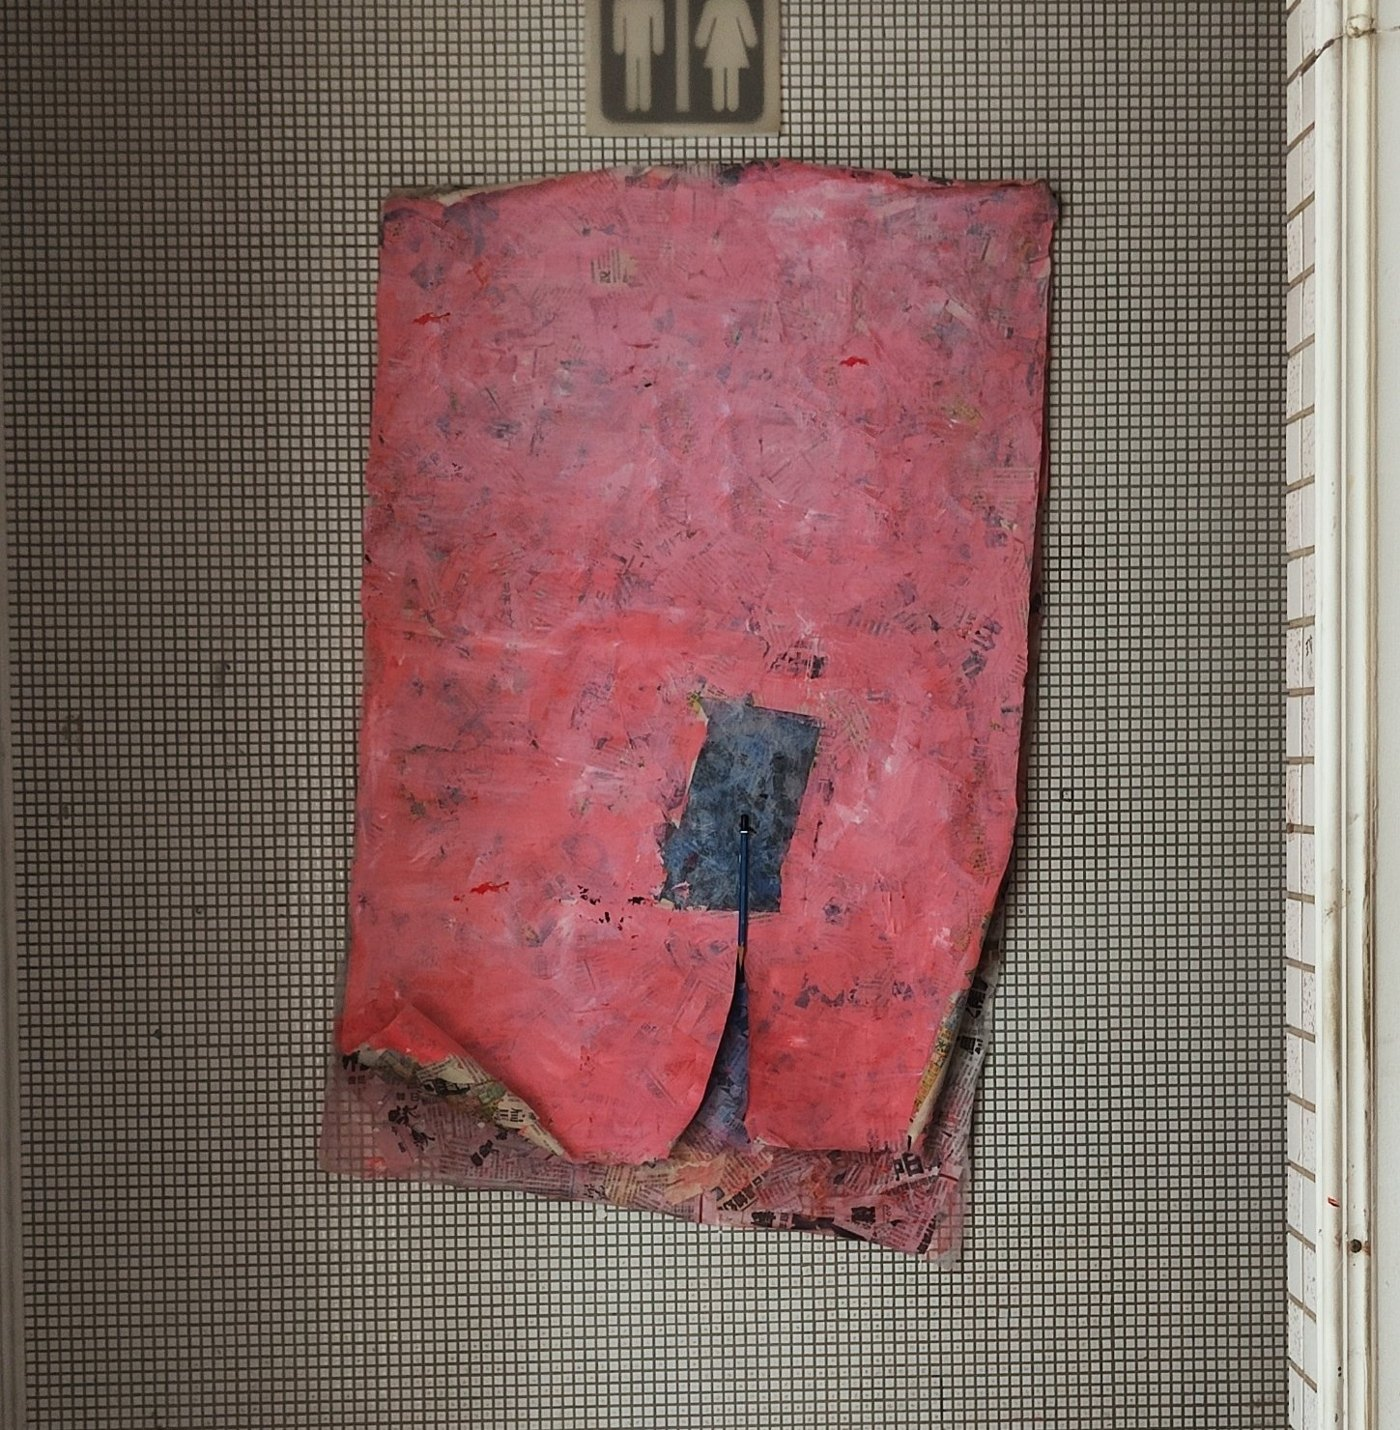
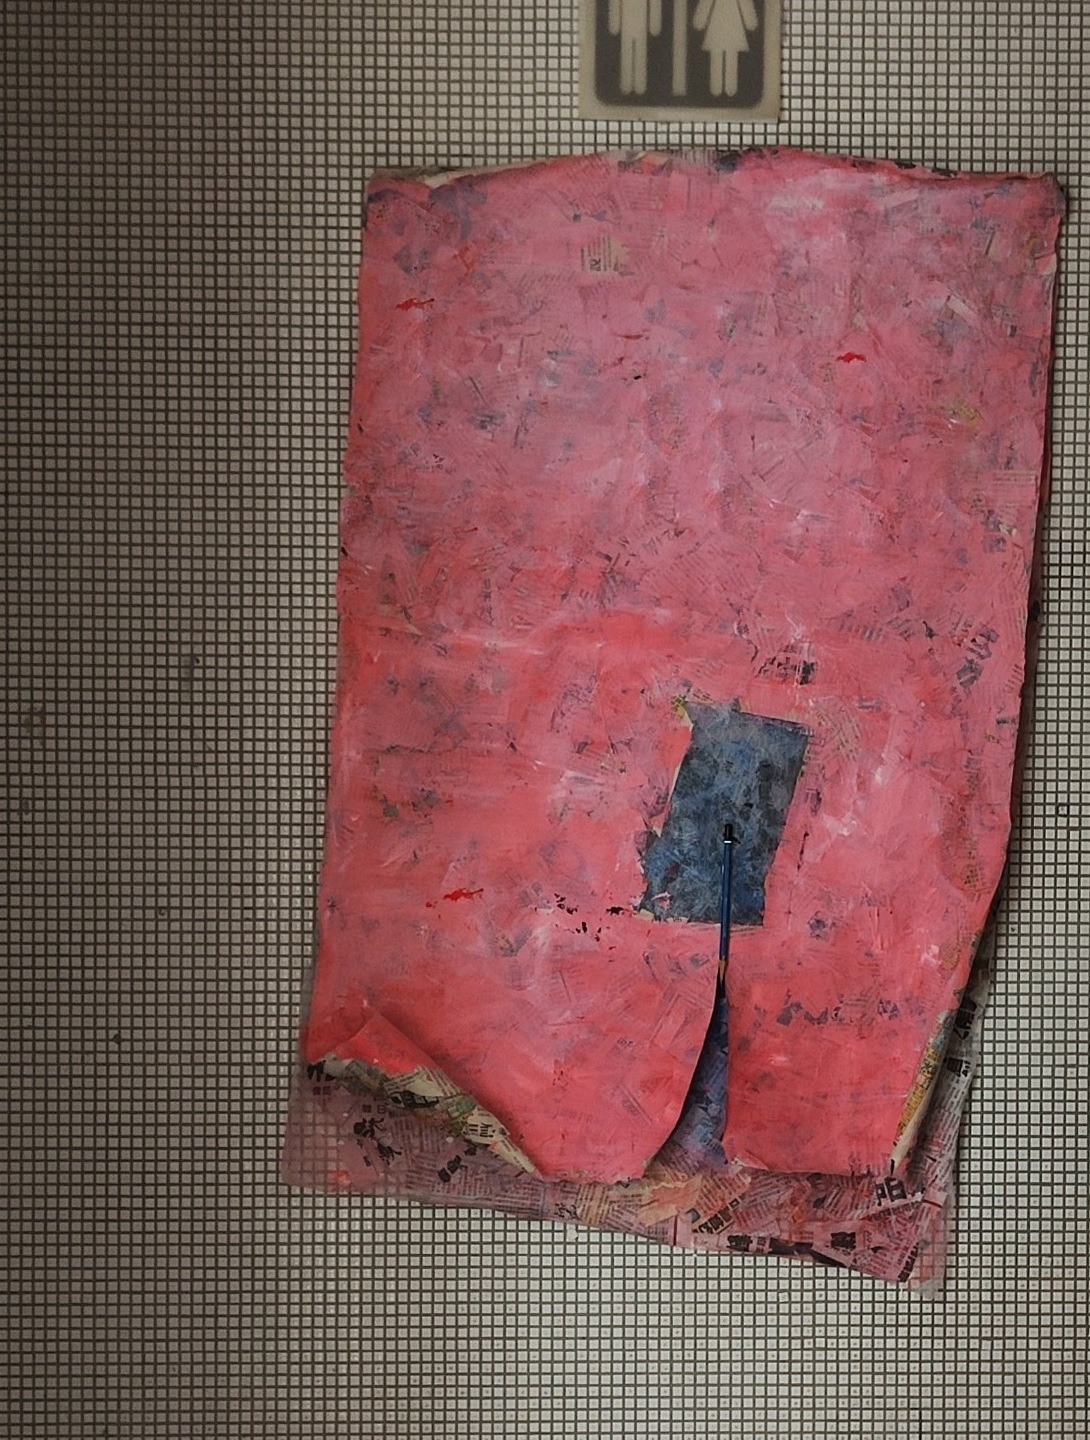
Draft: reorder studio works, frame-corrected images
Claude-Session: https://claude.ai/code/session_01Hq4tdmSpCTtjdqxRpwdXVc

diff --git a/index.html b/index.html
@@ -290,10 +290,9 @@ main { position: relative; margin-left: var(--side-w); padding-inline: clamp(28p
       <ul class="side-works">
         <li><a href="#w-wedding">To/gether - 在與一起<span class="yr">2025</span></a></li>
         <li><a href="#w-cube">驚喜立方體<span class="yr">2026</span></a></li>
-        <li><a href="#w-drawing">素描</a></li>
+        <li><a href="#w-figure">人像</a></li>
         <li><a href="#w-oil">油畫</a></li>
         <li><a href="#w-woodcut">木口木刻</a></li>
-        <li><a href="#w-figure">人像</a></li>
         <li><a href="#w-pink">粉紅（暫名）</a></li>
       </ul>
       <a href="#writing" data-nav="writing">Writing <span>書寫</span></a>
@@ -444,11 +443,10 @@ main { position: relative; margin-left: var(--side-w); padding-inline: clamp(28p
         <p class="meta">鍵盤互動作品 — 點進畫面後按鍵盤上的英文字母試試看</p>
       </article>
       <div class="w-pair">
-        <article class="work w-draw scrap m-writing t-shell lined reveal para" id="w-drawing" data-speed=".06" data-amp="8" data-stack="1" data-lift=".32">
-          <div class="plate scrap m-card t-cotton" data-amp="4" data-style="cut" data-lift=".05"><svg class="sketch" viewBox="0 0 200 120" aria-hidden="true"><path d="M40 96 C50 60 70 40 100 36 C130 40 150 60 160 96"/><path d="M100 36 C98 26 102 18 110 14"/></svg><small>素描</small></div>
-          <span class="tagline">Drawing</span>
-          <h3>素描</h3>
-          <p class="meta">系列，年份待填</p>
+        <article class="work w-oil2 scrap m-laid t-rose reveal para" data-speed=".06" id="w-figure" data-amp="9" data-lift=".4">
+          <div class="plate scrap m-card t-shell" data-amp="4" data-style="cut" data-lift=".05" style="aspect-ratio:1860/2525"><img src="img/studio-figure.jpg" alt="人像：以褐色大筆刷塗出蜷坐的人，粉紅與淡紫的底色上有大量垂流的藍色與灰綠色顏料" loading="lazy" style="width:100%;height:100%;object-fit:cover;display:block"></div>
+          <span class="tagline">Painting</span>
+          <h3>人像</h3>
         </article>
         <article class="work w-oil scrap m-laid t-rose reveal para" id="w-oil" data-speed="-.06" data-amp="11" data-lift=".62">
           <div class="tape scrap vellum" data-amp="3" style="left:24%;transform:translateX(-50%) rotate(7deg)"></div>
@@ -465,15 +463,8 @@ main { position: relative; margin-left: var(--side-w); padding-inline: clamp(28p
           <h3>木口木刻</h3>
           <p class="meta">重製版本</p>
         </article>
-        <article class="work w-oil2 scrap m-laid t-rose reveal" id="w-figure" data-amp="9" data-lift=".4">
-          <div class="plate scrap m-card t-shell" data-amp="4" data-style="cut" data-lift=".05" style="aspect-ratio:1860/2525"><img src="img/studio-figure.jpg" alt="人像：以褐色大筆刷塗出蜷坐的人，粉紅與淡紫的底色上有大量垂流的藍色與灰綠色顏料" loading="lazy" style="width:100%;height:100%;object-fit:cover;display:block"></div>
-          <span class="tagline">Painting</span>
-          <h3>人像</h3>
-        </article>
-      </div>
-      <div class="w-pair w-studio">
         <article class="work w-oil2 scrap m-laid t-rose reveal" id="w-pink" data-amp="9" data-lift=".4">
-          <div class="plate scrap m-card t-shell" data-amp="4" data-style="cut" data-lift=".05" style="aspect-ratio:1449/1480"><img src="img/studio-pink-wall.jpg" alt="粉紅色的報紙拼貼大幅作品，中央有一塊藍色長方形與一道裂縫，展於校內廁所入口" loading="lazy" style="width:100%;height:100%;object-fit:cover;display:block"></div>
+          <div class="plate scrap m-card t-shell" data-amp="4" data-style="cut" data-lift=".05" style="aspect-ratio:1090/1440"><img src="img/studio-pink-wall.jpg" alt="粉紅色的報紙拼貼大幅作品，中央有一塊藍色長方形與一道裂縫，展於校內廁所入口" loading="lazy" style="width:100%;height:100%;object-fit:cover;display:block"></div>
           <span class="tagline">Mixed media · newspaper</span>
           <h3>粉紅（暫名）</h3>
           <p class="meta">重製版本</p>
